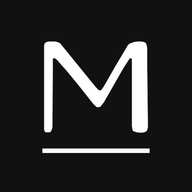
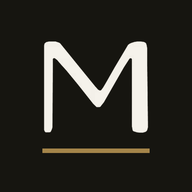
Add files via upload

Changed region(s): [[0.2188, 0.75, 0.7812, 0.8125]]

diff --git a/index.html b/index.html
@@ -12,80 +12,82 @@
 <meta name="apple-mobile-web-app-status-bar-style" content="black-translucent" />
 <meta name="apple-mobile-web-app-title" content="Marles" />
 <link rel="preconnect" href="https://fonts.googleapis.com" />
-<link href="https://fonts.googleapis.com/css2?family=Jost:wght@500;600;700&family=Inter:wght@400;500;600;700&display=swap" rel="stylesheet" />
+<link href="https://fonts.googleapis.com/css2?family=Marcellus&family=Inter:wght@400;500;600;700&display=swap" rel="stylesheet" />
 <style>
   :root {
-    --ink: #111111; --indigo: #111111; --linen: #FAFAF9; --thread: #D64541;
-    --muted: #6B7280; --line: #E3E1D9; --ok: #1E7A4D; --card: #FFFFFF;
+    --ink: #17150F; --indigo: #17150F; --linen: #F5F2EB; --thread: #B3402F;
+    --muted: #7E7869; --line: #E5E0D4; --ok: #2F6B4F; --card: #FFFFFF; --brass: #A5854A;
   }
   * { box-sizing: border-box; }
-  body { margin: 0; background: var(--linen); font-family: 'Inter', sans-serif; color: var(--ink); }
+  body { margin: 0; background: var(--linen); font-family: 'Inter', sans-serif; color: var(--ink); -webkit-font-smoothing: antialiased; }
   input, select, textarea, button { font-family: 'Inter', sans-serif; font-size: 16px; }
-  input, select, textarea { width: 100%; padding: 10px 12px; border: 1px solid var(--line); border-radius: 8px; background: #fff; color: var(--ink); }
-  input:focus, select:focus, textarea:focus { outline: 2px solid var(--indigo); outline-offset: 1px; }
-  .masked { -webkit-text-security: disc; }
-  label > .lbl { display: block; font-size: 12px; font-weight: 600; color: var(--muted); letter-spacing: .04em; text-transform: uppercase; margin-bottom: 4px; }
-  header { background: #fff; color: var(--ink); padding: 20px 16px 16px; border-bottom: 1px solid var(--line); }
-  header .inner { max-width: 560px; margin: 0 auto; }
-  header .logo { height: 30px; display: block; }
-  header p { font-size: 10.5px; letter-spacing: .18em; text-transform: uppercase; color: var(--muted); margin: 8px 0 0; }
+  input, select, textarea { width: 100%; padding: 11px 13px; border: 1px solid var(--line); border-radius: 6px; background: #fff; color: var(--ink); transition: border-color .15s ease, box-shadow .15s ease; }
+  input:focus, select:focus, textarea:focus { outline: none; border-color: var(--brass); box-shadow: 0 0 0 3px rgba(165,133,74,.14); }
+  label > .lbl { display: block; font-size: 10px; font-weight: 600; color: var(--muted); letter-spacing: .16em; text-transform: uppercase; margin-bottom: 6px; }
+  header { background: #fff; padding: 26px 16px 18px; border-bottom: 1px solid var(--line); }
+  header .inner { max-width: 560px; margin: 0 auto; text-align: center; }
+  header .logo { height: 26px; display: block; margin: 0 auto; }
+  header p { font-size: 9.5px; letter-spacing: .3em; text-transform: uppercase; color: var(--muted); margin: 11px 0 0; }
   nav { background: #fff; border-bottom: 1px solid var(--line); display: flex; max-width: 560px; margin: 0 auto; position: sticky; top: 0; z-index: 5; }
-  nav button { flex: 1; padding: 12px 0; border: none; background: transparent; font-family: 'Jost', sans-serif; font-weight: 700; font-size: 13.5px; color: var(--muted); border-bottom: 3px solid transparent; cursor: pointer; }
-  nav button.active { color: var(--ink); border-bottom-color: var(--ink); }
-  main { max-width: 560px; margin: 0 auto; padding: 16px 14px 40px; }
-  .card { background: var(--card); border: 1px solid var(--line); border-radius: 12px; padding: 16px; margin-bottom: 14px; }
-  .card h2 { font-family: 'Jost', sans-serif; font-weight: 700; font-size: 14px; margin: 0 0 8px; }
-  .grid2 { display: grid; grid-template-columns: 1fr 1fr; gap: 10px; }
-  .grid3 { display: grid; grid-template-columns: 1fr 90px 90px; gap: 10px; }
-  .row { display: flex; justify-content: space-between; padding: 6px 0; border-bottom: 1px dashed var(--line); font-size: 13.5px; }
+  nav button { flex: 1; padding: 14px 0 12px; border: none; background: transparent; font-weight: 600; font-size: 10.5px; letter-spacing: .12em; text-transform: uppercase; color: var(--muted); border-bottom: 2px solid transparent; cursor: pointer; transition: color .15s ease; }
+  nav button.active { color: var(--ink); border-bottom-color: var(--brass); }
+  main { max-width: 560px; margin: 0 auto; padding: 18px 14px 48px; }
+  .card { background: var(--card); border: 1px solid var(--line); border-radius: 10px; padding: 20px 18px; margin-bottom: 16px; box-shadow: 0 1px 2px rgba(23,21,15,.03), 0 10px 28px rgba(23,21,15,.04); }
+  .card h2 { font-size: 10px; font-weight: 600; letter-spacing: .18em; text-transform: uppercase; color: var(--muted); margin: 0 0 14px; display: flex; align-items: center; gap: 12px; }
+  .card h2::after { content: ""; flex: 1; height: 1px; background: var(--line); }
+  .grid2 { display: grid; grid-template-columns: 1fr 1fr; gap: 12px; }
+  .grid3 { display: grid; grid-template-columns: 1fr 90px 90px; gap: 12px; }
+  .row { display: flex; justify-content: space-between; padding: 7px 0; border-bottom: 1px solid #F0ECE1; font-size: 13.5px; }
   .row span:first-child { color: var(--muted); }
   .row span:last-child { font-weight: 600; font-variant-numeric: tabular-nums; }
-  .row.strong { border-bottom: none; font-size: 15px; }
-  .row.strong span { color: var(--ink) !important; font-weight: 800; }
+  .row.strong { border-bottom: none; font-size: 15px; padding-top: 10px; }
+  .row.strong span { color: var(--ink) !important; font-weight: 700; }
   .row.red span:last-child { color: var(--thread); }
-  .result { background: var(--ink); color: #fff; border-radius: 12px; padding: 18px 16px 18px 26px; margin-bottom: 14px; position: relative; overflow: hidden; }
-  .result::before { content: ""; position: absolute; top: 0; bottom: 0; left: 10px; width: 2px; background: #fff; }
-  .result .cap { font-size: 12px; opacity: .7; text-transform: uppercase; letter-spacing: .06em; }
-  .result .big { font-family: 'Jost', sans-serif; font-weight: 800; font-size: 34px; margin-top: 2px; }
-  .result .big small { font-size: 16px; font-weight: 600; opacity: .7; }
-  .result .stats { display: flex; gap: 18px; margin-top: 10px; font-size: 13px; }
-  .result .stats i { font-style: normal; opacity: .65; display: block; }
-  .margens { display: grid; grid-template-columns: repeat(auto-fit, minmax(105px, 1fr)); gap: 8px; margin-bottom: 14px; }
-  .mcard { background: var(--card); border: 1px solid var(--line); border-top: 2px solid var(--ink); border-radius: 12px; padding: 12px 8px; text-align: center; }
-  .mcard .pct { font-size: 11px; font-weight: 700; color: var(--indigo); text-transform: uppercase; letter-spacing: .04em; }
-  .mcard .val { font-family: 'Jost', sans-serif; font-weight: 800; font-size: 17px; margin-top: 3px; }
-  .mcard .mk { font-size: 11px; color: var(--muted); margin-top: 2px; }
-  .modo { display: flex; background: var(--linen); border-radius: 10px; padding: 4px; gap: 4px; margin-bottom: 12px; }
-  .modo button { flex: 1; padding: 9px 0; border: none; border-radius: 8px; background: transparent; font-family: 'Jost', sans-serif; font-weight: 700; font-size: 13px; color: var(--muted); cursor: pointer; }
-  .modo button.active { background: var(--ink); color: #fff; }
-  .btn { width: 100%; padding: 13px 0; background: var(--indigo); color: #fff; border: none; border-radius: 8px; font-weight: 700; font-size: 15px; cursor: pointer; font-family: 'Jost', sans-serif; }
+  .result { background: #161510; color: #F5F2EB; border-radius: 10px; padding: 22px 20px 20px; margin-bottom: 16px; position: relative; overflow: hidden; box-shadow: 0 16px 40px rgba(23,21,15,.16); }
+  .result::before { content: ""; position: absolute; top: 0; left: 0; right: 0; height: 2px; background: linear-gradient(90deg, var(--brass) 0%, rgba(165,133,74,.18) 85%); }
+  .result .cap { font-size: 9.5px; letter-spacing: .24em; text-transform: uppercase; color: #C7AC72; }
+  .result .big { font-family: 'Marcellus', serif; font-weight: 400; font-size: 40px; line-height: 1.1; margin-top: 7px; }
+  .result .big small { font-size: 15px; font-family: 'Inter', sans-serif; opacity: .55; }
+  .result .stats { display: flex; gap: 28px; margin-top: 16px; font-size: 13.5px; }
+  .result .stats i { font-style: normal; opacity: .5; display: block; font-size: 9.5px; letter-spacing: .14em; text-transform: uppercase; margin-bottom: 3px; }
+  .margens { display: grid; grid-template-columns: repeat(auto-fit, minmax(105px, 1fr)); gap: 10px; margin-bottom: 16px; }
+  .mcard { background: var(--card); border: 1px solid var(--line); border-top: 2px solid var(--brass); border-radius: 10px; padding: 14px 8px 12px; text-align: center; box-shadow: 0 1px 2px rgba(23,21,15,.03); }
+  .mcard .pct { font-size: 9px; font-weight: 600; color: var(--muted); text-transform: uppercase; letter-spacing: .16em; }
+  .mcard .val { font-family: 'Marcellus', serif; font-weight: 400; font-size: 19px; margin-top: 5px; font-variant-numeric: tabular-nums; }
+  .mcard .mk { font-size: 11px; color: var(--muted); margin-top: 3px; }
+  .modo { display: flex; background: #EDE9DE; border-radius: 8px; padding: 4px; gap: 4px; margin-bottom: 14px; }
+  .modo button { flex: 1; padding: 10px 0; border: none; border-radius: 6px; background: transparent; font-weight: 600; font-size: 10.5px; letter-spacing: .1em; text-transform: uppercase; color: var(--muted); cursor: pointer; transition: color .15s ease; }
+  .modo button.active { background: #161510; color: #F5F2EB; }
+  .btn { width: 100%; padding: 15px 0; background: #161510; color: #F5F2EB; border: none; border-radius: 6px; font-weight: 600; font-size: 12px; letter-spacing: .16em; text-transform: uppercase; cursor: pointer; transition: opacity .15s ease; }
+  .btn:hover { opacity: .92; }
   .btn:disabled { opacity: .5; }
-  .btn-ghost { background: transparent; border: 1px solid var(--line); color: var(--indigo); font-size: 12.5px; font-weight: 600; padding: 6px 12px; border-radius: 8px; cursor: pointer; width: auto; }
+  .btn-ghost { background: #fff; border: 1px solid var(--line); color: var(--ink); font-size: 10.5px; font-weight: 600; letter-spacing: .1em; text-transform: uppercase; padding: 8px 14px; border-radius: 6px; cursor: pointer; width: auto; }
   .msg-ok { color: var(--ok); font-weight: 600; font-size: 13.5px; }
   .msg-err { color: var(--thread); font-weight: 600; font-size: 13.5px; }
-  .hint { font-size: 12px; color: var(--muted); }
+  .hint { font-size: 12px; color: var(--muted); line-height: 1.55; }
   .fotos-grid { display: flex; gap: 8px; flex-wrap: wrap; margin-top: 6px; }
   .fotos-grid .thumb { position: relative; }
-  .fotos-grid img { width: 84px; height: 84px; object-fit: cover; border-radius: 8px; border: 1px solid var(--line); }
+  .fotos-grid img { width: 84px; height: 84px; object-fit: cover; border-radius: 6px; border: 1px solid var(--line); }
   .fotos-grid .del { position: absolute; top: -6px; right: -6px; width: 22px; height: 22px; border-radius: 50%; border: none; background: var(--thread); color: #fff; font-size: 13px; font-weight: 700; cursor: pointer; line-height: 1; padding: 0; }
-  .add-foto { width: 84px; height: 84px; border: 2px dashed var(--line); border-radius: 8px; display: flex; flex-direction: column; align-items: center; justify-content: center; cursor: pointer; color: var(--indigo); font-size: 12px; font-weight: 600; gap: 2px; }
-  .tecido { background: var(--card); border: 1px solid var(--line); border-radius: 12px; padding: 14px 14px 14px 22px; margin-bottom: 12px; position: relative; }
-  .tecido::before { content: ""; position: absolute; top: 0; bottom: 0; left: 0; width: 3px; background: var(--ink); border-radius: 12px 0 0 12px; }
-  .tecido h3 { font-family: 'Jost', sans-serif; font-weight: 700; font-size: 16px; margin: 0; display: inline; }
-  .tecido .data { font-size: 11.5px; color: var(--muted); float: right; }
-  .tecido .forn { font-size: 13.5px; color: var(--indigo); font-weight: 600; margin-top: 2px; }
-  .tecido .specs { font-size: 13px; color: var(--muted); margin-top: 4px; }
-  .tecido .precos { display: flex; gap: 16px; margin-top: 8px; font-size: 13.5px; flex-wrap: wrap; }
-  .tecido .obs { font-size: 13.5px; margin-top: 8px; padding: 8px 10px; background: var(--linen); border-radius: 8px; white-space: pre-wrap; }
-  .tecido .galeria { display: flex; gap: 6px; flex-wrap: wrap; margin-top: 8px; }
-  .tecido .galeria img { width: 92px; height: 92px; object-fit: cover; border-radius: 8px; border: 1px solid var(--line); cursor: pointer; }
+  .add-foto { width: 84px; height: 84px; border: 1px dashed #CFC8B8; border-radius: 6px; display: flex; flex-direction: column; align-items: center; justify-content: center; cursor: pointer; color: var(--muted); font-size: 10px; font-weight: 600; letter-spacing: .08em; text-transform: uppercase; gap: 3px; background: #FCFBF7; }
+  .tecido { background: var(--card); border: 1px solid var(--line); border-radius: 10px; padding: 16px 16px 14px 22px; margin-bottom: 14px; position: relative; box-shadow: 0 1px 2px rgba(23,21,15,.03), 0 10px 28px rgba(23,21,15,.04); }
+  .tecido::before { content: ""; position: absolute; top: 0; bottom: 0; left: 0; width: 2px; background: var(--brass); border-radius: 10px 0 0 10px; }
+  .tecido h3 { font-family: 'Marcellus', serif; font-weight: 400; font-size: 18px; margin: 0; display: inline; }
+  .tecido .data { font-size: 10.5px; color: var(--muted); float: right; letter-spacing: .06em; margin-top: 4px; }
+  .tecido .forn { font-size: 11px; color: var(--muted); font-weight: 600; letter-spacing: .1em; text-transform: uppercase; margin-top: 4px; }
+  .tecido .specs { font-size: 13px; color: var(--muted); margin-top: 6px; }
+  .tecido .precos { display: flex; gap: 16px; margin-top: 10px; font-size: 13.5px; flex-wrap: wrap; }
+  .tecido .obs { font-size: 13.5px; margin-top: 10px; padding: 10px 12px; background: var(--linen); border-radius: 6px; white-space: pre-wrap; line-height: 1.5; }
+  .tecido .galeria { display: flex; gap: 6px; flex-wrap: wrap; margin-top: 10px; }
+  .tecido .galeria img { width: 92px; height: 92px; object-fit: cover; border-radius: 6px; border: 1px solid var(--line); cursor: pointer; }
   .tecido .galeria img.amp { width: 100%; height: auto; }
-  .del-tecido { margin-top: 10px; background: transparent; border: none; color: var(--thread); font-size: 12.5px; font-weight: 600; cursor: pointer; padding: 0; }
+  .del-tecido { margin-top: 12px; background: transparent; border: none; color: var(--thread); font-size: 11px; font-weight: 600; letter-spacing: .08em; text-transform: uppercase; cursor: pointer; padding: 0; }
   .del-tecido:disabled { opacity: .5; }
-  .acc-head { width: 100%; padding: 14px 16px; background: transparent; border: none; cursor: pointer; display: flex; justify-content: space-between; font-family: 'Jost', sans-serif; font-weight: 700; font-size: 14px; color: var(--ink); }
-  .empty { border-style: dashed; text-align: center; color: var(--muted); font-size: 14px; padding: 24px; }
-  .banner { background: #FFF7E6; border: 1px solid #F0DCA8; border-radius: 10px; padding: 12px 14px; font-size: 13.5px; margin-bottom: 14px; }
-  .field-group { margin-bottom: 12px; }
+  .acc-head { width: 100%; padding: 16px 18px; background: transparent; border: none; cursor: pointer; display: flex; justify-content: space-between; align-items: center; font-weight: 600; font-size: 10.5px; letter-spacing: .16em; text-transform: uppercase; color: var(--ink); }
+  .empty { border-style: dashed; text-align: center; color: var(--muted); font-size: 13.5px; padding: 28px 20px; box-shadow: none; }
+  .banner { background: #FBF6E8; border: 1px solid #E8D9AE; border-radius: 8px; padding: 12px 14px; font-size: 13.5px; margin-bottom: 16px; }
+  .field-group { margin-bottom: 14px; }
+  .masked { -webkit-text-security: disc; }
 </style>
 </head>
 <body>
